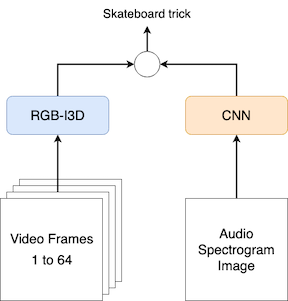
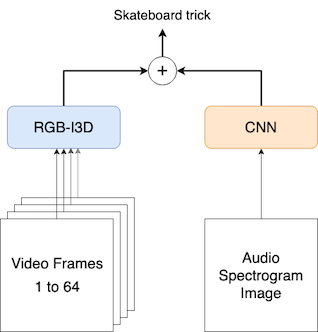
Updated model architecture image. Added data folder structure image. Added Personal Dataset Predictions.

diff --git a/personal_dataset_predictions/README.md b/personal_dataset_predictions/README.md
@@ -1,0 +1,11 @@
+# Personal Dataset Predictions
+
+After I completed this project, I thought it would be fun to test the RGB+Audio model on video clips of me skateboarding. I plan to update this page as I record more skateboard tricks in the future.
+
+| Input | Actual | Prediction |
+| --- | --- | --- |
+| ![kickflip](readme_content/boardslide_000.gif) | boardslide | <span style="color:green">boardslide</span> |
+| ![kickflip](readme_content/360_kickflip_000.gif) | 360 kickflip | <span style="color:green">360 kickflip</span> |
+| ![kickflip](readme_content/fail_000.gif) | fail | <span style="color:green">fail</span> |
+| ![kickflip](readme_content/nosegrind_000.gif) | nosegrind | <span style="color:red">tailslide</span> |
+| ![kickflip](readme_content/50-50_000.gif) | 50-50 | <span style="color:red">tailslide</span> |

diff --git a/README.md b/README.md
@@ -111,3 +111,9 @@ The model metrics (accuracy, precision, recall, etc) on the test set can be foun
 
 * [RGB Model Notebook](https://github.com/michaelnation26/skateboard_trick_classification/blob/master/rgb_model.ipynb)
 * [RGB+Audio Model Notebook](https://github.com/michaelnation26/skateboard_trick_classification/blob/master/rgb%2Baudio_model.ipynb)
+
+# Getting Started
+
+All the code needed to train the models are included in this repository. However, the video clips in the training, validation, and test sets are not publicly available. You will have to curate your own datasets. The folder structure for the datasets is as follows:
+
+![data folder structure](readme_content/data_folder_structure.png)
